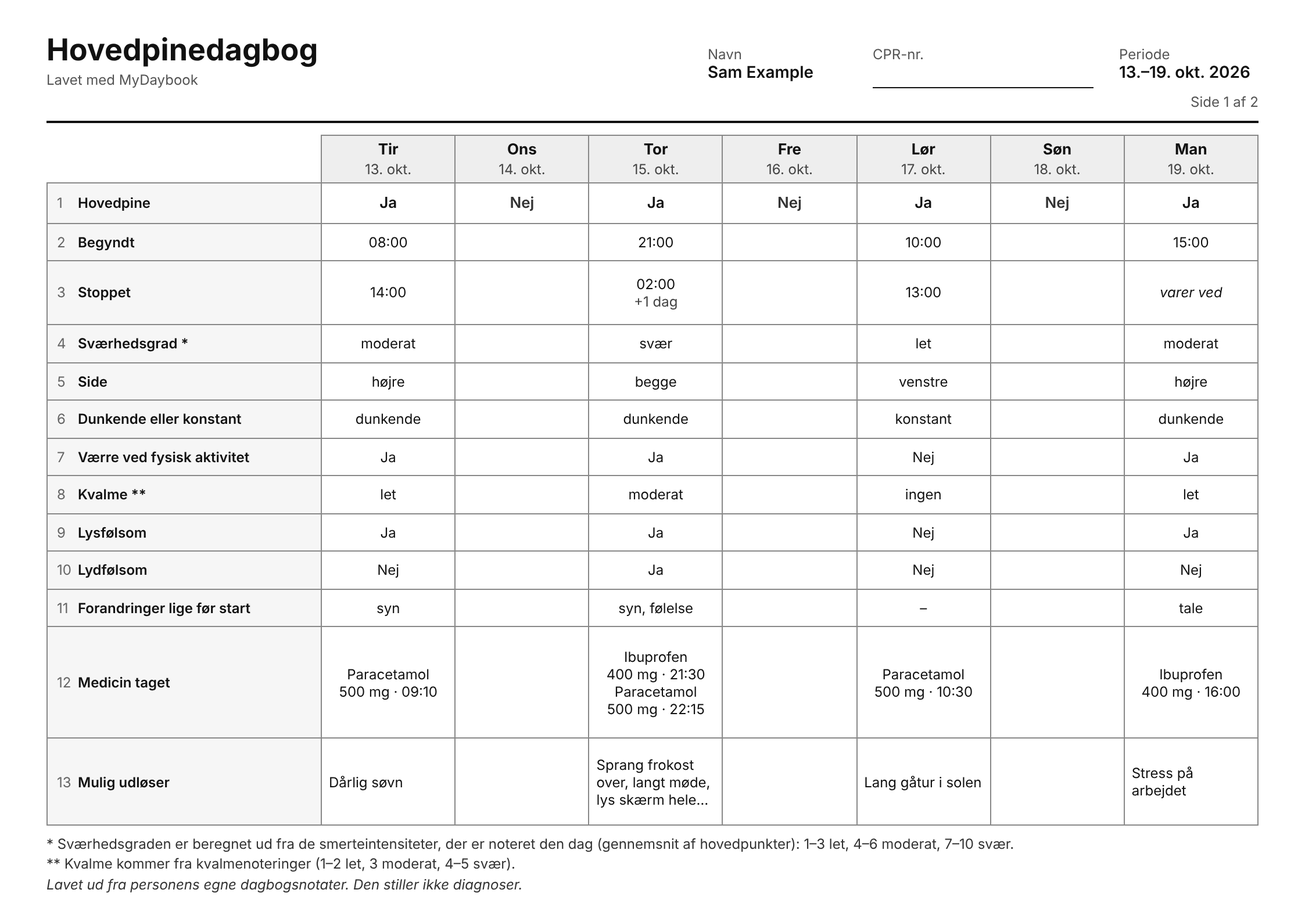
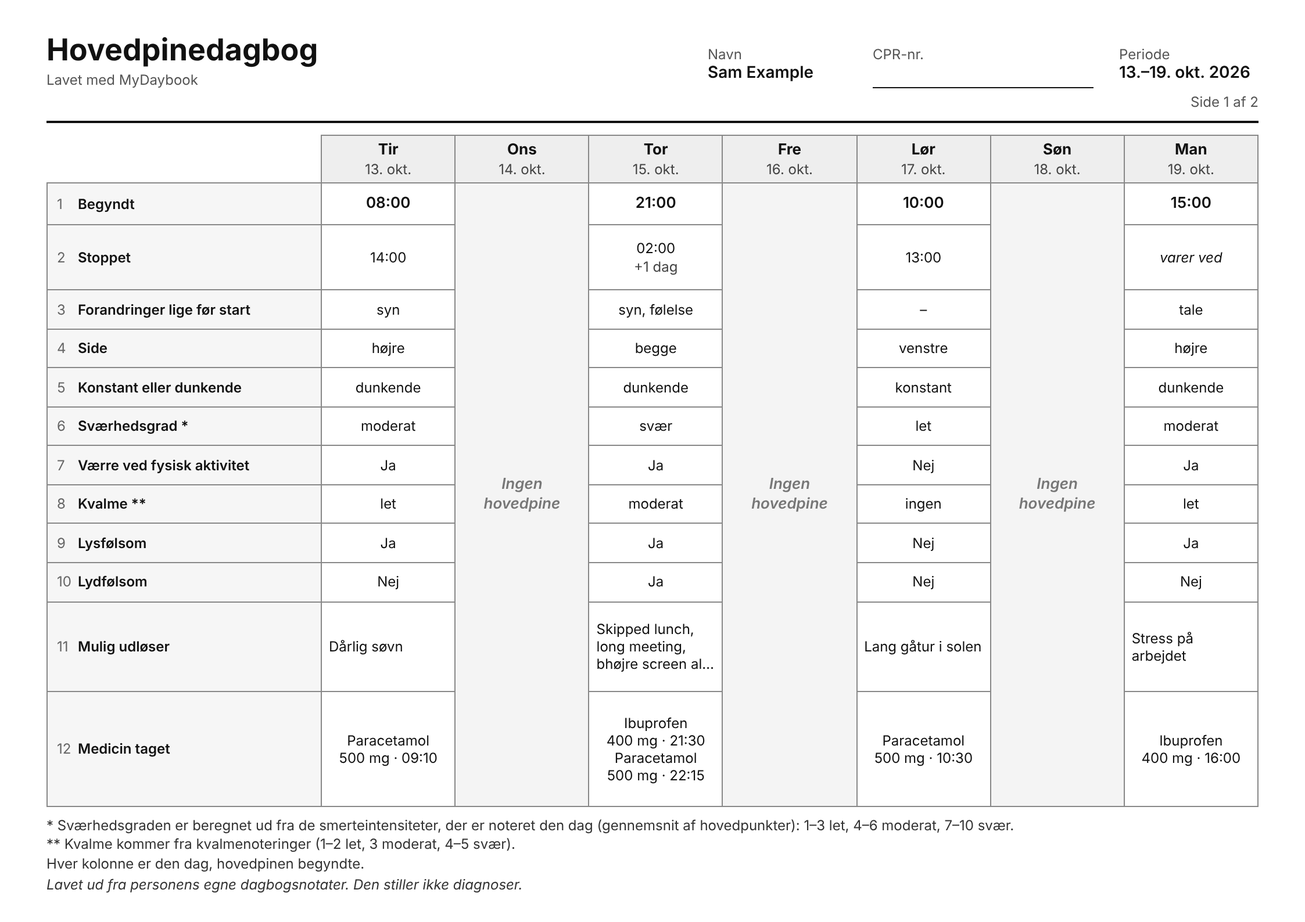
docs(design): headache report layouts (clean table in form order, form layout) and layout picker
Claude-Session: https://claude.ai/code/session_0113psJp7HwLdrncjrcTtuKa

diff --git a/design/headache-report-form.html b/design/headache-report-form.html
@@ -1,0 +1,48 @@
+<!doctype html>
+<html lang="en"><head><meta charset="utf-8"><meta name="viewport" content="width=device-width, initial-scale=1">
+<title>Headache diary, form layout: MyDaybook mockup</title>
+<style>
+@page { size: A4 portrait; margin: 0 }
+* { box-sizing: border-box; margin: 0 }
+html { background: #ddd }
+body { font: 12px/16px system-ui, -apple-system, "Segoe UI", Roboto, Arial, sans-serif; color: #111 }
+.page { width: 794px; height: 1123px; padding: 28px 24px 20px; background: #fff; margin: 0 auto 24px; display: flex; flex-direction: column; overflow: hidden; break-after: page }
+@media print { html { background: #fff } .page { margin: 0 } }
+header { display: grid; grid-template-columns: 1fr auto; gap: 2px 20px; align-items: end; padding-bottom: 8px; border-bottom: 2px solid #111 }
+h1 { font-size: 22px; line-height: 26px } .app { color: #555 }
+dl { display: flex; gap: 18px } dt { color: #555 } dd { font-size: 13px; font-weight: 600; min-height: 18px }
+dd.blank { border-bottom: 1px solid #111; min-width: 130px; margin-top: 2px }
+.pg { grid-column: 2; text-align: right; color: #555 }
+table { width: 100%; border-collapse: collapse; margin-top: 8px; table-layout: fixed }
+col.q { width: 186px }
+th, td { border: 1px solid #888; padding: 3px 4px; vertical-align: top; font-size: 12px; line-height: 16px }
+thead th { background: #eee; text-align: center; font-weight: 600; vertical-align: middle }
+tbody th { text-align: left; font-weight: 400; background: #f6f6f6; white-space: nowrap; padding-left: 6px }
+tbody th b { font-weight: 600 } .n { display: inline-block; width: 18px; color: #666 }
+td { text-align: center }
+.l { height: 16px; white-space: nowrap } .ind { padding-left: 18px }
+.v { font-weight: 600; font-size: 13px; line-height: 24px }
+td.val { vertical-align: middle } tbody tr.thin th, tbody tr.thin td { padding-top: 2px; padding-bottom: 2px }
+.bx { display: inline-block; width: 11px; height: 11px; border: 1.3px solid #222; vertical-align: -1px; position: relative }
+.bx.x::before, .bx.x::after { content: ""; position: absolute; left: 4px; top: -2px; width: 1.6px; height: 14px; background: #111; transform: rotate(45deg) }
+.bx.x::after { transform: rotate(-45deg) }
+.l.sep { border-top: 1px dotted #999; margin-top: 3px; padding-top: 3px; height: 22px }
+tbody tr.thin th { vertical-align: middle }
+.tx { text-align: left; font-size: 12px; display: -webkit-box; -webkit-line-clamp: 3; -webkit-box-orient: vertical; overflow: hidden; line-height: 16px }
+.sm { font-size: 12px; color: #444 } .more { font-style: italic; letter-spacing: -.2px }
+.empty { background: repeating-linear-gradient(135deg, #fff 0 6px, #f6f6f6 6px 7px) }
+footer { margin-top: 8px } footer p { color: #333; line-height: 16px } footer p:last-child { margin-top: 2px; font-style: italic }
+</style></head><body>
+<section class="page" lang="en">
+<header><div><h1>Headache diary — form layout</h1><p class=app>Made with MyDaybook</p></div>
+<dl><div><dt>Name</dt><dd>Sam Example</dd></div><div><dt>CPR no.</dt><dd class=blank>&nbsp;</dd></div><div><dt>Period</dt><dd>13–21 Oct 2026</dd></div></dl>
+<p class=pg>Page 1 of 1</p></header>
+<table><colgroup><col class=q></colgroup><tbody><tr class="thin"><th scope=row><span class=n>1</span><b>Date</b></th><td class=val><span class=v>13/10</span></td><td class=val><span class=v>15/10</span></td><td class=val><span class=v>17/10</span></td><td class=val><span class=v>19/10</span></td><td class=val><span class=v>21/10</span></td><td class=empty></td><td class=empty></td></tr><tr class="thin"><th scope=row><span class=n>2</span>Started (nearest hour)</th><td class=val><span class=v>08:00</span></td><td class=val><span class=v>21:00</span></td><td class=val><span class=v>10:00</span></td><td class=val><span class=v>15:00</span></td><td class=val><span class=v>06:00</span></td><td class=empty></td><td class=empty></td></tr><tr class="thin"><th scope=row><span class=n>3</span>Stopped (nearest hour)</th><td class=val><span class=v>14:00</span></td><td class=val><span class=v>02:00</span><br><span class=sm>+1 day</span></td><td class=val><span class=v>13:00</span></td><td class=val><span class=sm><i>still going</i></span></td><td class=val><span class=v>09:00</span></td><td class=empty></td><td class=empty></td></tr><tr class=""><th scope=row><div class=l><span class=n>4</span>Just before the headache,</div><div class=l>disturbances of:</div><div class="l ind">vision</div><div class="l ind">feeling</div><div class="l ind">speech</div></th><td><div class=l></div><div class=l></div><div class=l><span class="bx x"></span></div><div class=l><span class=bx></span></div><div class=l><span class=bx></span></div></td><td><div class=l></div><div class=l></div><div class=l><span class="bx x"></span></div><div class=l><span class="bx x"></span></div><div class=l><span class=bx></span></div></td><td><div class=l></div><div class=l></div><div class=l><span class=bx></span></div><div class=l><span class=bx></span></div><div class=l><span class=bx></span></div></td><td><div class=l></div><div class=l></div><div class=l><span class=bx></span></div><div class=l><span class=bx></span></div><div class=l><span class="bx x"></span></div></td><td><div class=l></div><div class=l></div><div class=l><span class=bx></span></div><div class=l><span class="bx x"></span></div><div class=l><span class=bx></span></div></td><td class=empty></td><td class=empty></td></tr><tr class=""><th scope=row><div class=l><span class=n>5</span>The headache was:</div><div class="l ind">both sides</div><div class="l ind">right side</div><div class="l ind">left side</div></th><td><div class=l></div><div class=l><span class=bx></span></div><div class=l><span class="bx x"></span></div><div class=l><span class=bx></span></div></td><td><div class=l></div><div class=l><span class="bx x"></span></div><div class=l><span class=bx></span></div><div class=l><span class=bx></span></div></td><td><div class=l></div><div class=l><span class=bx></span></div><div class=l><span class=bx></span></div><div class=l><span class="bx x"></span></div></td><td><div class=l></div><div class=l><span class=bx></span></div><div class=l><span class="bx x"></span></div><div class=l><span class=bx></span></div></td><td><div class=l></div><div class=l><span class=bx></span></div><div class=l><span class=bx></span></div><div class=l><span class="bx x"></span></div></td><td class=empty></td><td class=empty></td></tr><tr class=""><th scope=row><div class=l><span class=n>6</span>The headache was:</div><div class="l ind">constant</div><div class="l ind">pulsating</div></th><td><div class=l></div><div class=l><span class=bx></span></div><div class=l><span class="bx x"></span></div></td><td><div class=l></div><div class=l><span class="bx x"></span></div><div class=l><span class="bx x"></span></div></td><td><div class=l></div><div class=l><span class="bx x"></span></div><div class=l><span class=bx></span></div></td><td><div class=l></div><div class=l><span class=bx></span></div><div class=l><span class="bx x"></span></div></td><td><div class=l></div><div class=l><span class=bx></span></div><div class=l><span class="bx x"></span></div></td><td class=empty></td><td class=empty></td></tr><tr class=""><th scope=row><div class=l><span class=n>7</span>Severity, average of the</div><div class=l>whole day (*):</div><div class="l ind">mild</div><div class="l ind">moderate</div><div class="l ind">severe</div></th><td><div class=l></div><div class=l></div><div class=l><span class=bx></span></div><div class=l><span class="bx x"></span></div><div class=l><span class=bx></span></div></td><td><div class=l></div><div class=l></div><div class=l><span class=bx></span></div><div class=l><span class=bx></span></div><div class=l><span class="bx x"></span></div></td><td><div class=l></div><div class=l></div><div class=l><span class="bx x"></span></div><div class=l><span class=bx></span></div><div class=l><span class=bx></span></div></td><td><div class=l></div><div class=l></div><div class=l><span class=bx></span></div><div class=l><span class="bx x"></span></div><div class=l><span class=bx></span></div></td><td><div class=l></div><div class=l></div><div class=l><span class="bx x"></span></div><div class=l><span class=bx></span></div><div class=l><span class=bx></span></div></td><td class=empty></td><td class=empty></td></tr><tr class=""><th scope=row><div class=l><span class=n>8</span>Worse with physical</div><div class=l>activity, e.g. stairs:</div><div class="l ind">no</div><div class="l ind">yes</div></th><td><div class=l></div><div class=l></div><div class=l><span class=bx></span></div><div class=l><span class="bx x"></span></div></td><td><div class=l></div><div class=l></div><div class=l><span class=bx></span></div><div class=l><span class="bx x"></span></div></td><td><div class=l></div><div class=l></div><div class=l><span class="bx x"></span></div><div class=l><span class=bx></span></div></td><td><div class=l></div><div class=l></div><div class=l><span class=bx></span></div><div class=l><span class="bx x"></span></div></td><td><div class=l></div><div class=l></div><div class=l><span class="bx x"></span></div><div class=l><span class=bx></span></div></td><td class=empty></td><td class=empty></td></tr><tr class=""><th scope=row><div class=l><span class=n>9</span>Nausea (**):</div><div class="l ind">none</div><div class="l ind">mild</div><div class="l ind">moderate</div><div class="l ind">severe</div></th><td><div class=l></div><div class=l><span class=bx></span></div><div class=l><span class="bx x"></span></div><div class=l><span class=bx></span></div><div class=l><span class=bx></span></div></td><td><div class=l></div><div class=l><span class=bx></span></div><div class=l><span class=bx></span></div><div class=l><span class="bx x"></span></div><div class=l><span class=bx></span></div></td><td><div class=l></div><div class=l><span class="bx x"></span></div><div class=l><span class=bx></span></div><div class=l><span class=bx></span></div><div class=l><span class=bx></span></div></td><td><div class=l></div><div class=l><span class=bx></span></div><div class=l><span class="bx x"></span></div><div class=l><span class=bx></span></div><div class=l><span class=bx></span></div></td><td><div class=l></div><div class=l><span class="bx x"></span></div><div class=l><span class=bx></span></div><div class=l><span class=bx></span></div><div class=l><span class=bx></span></div></td><td class=empty></td><td class=empty></td></tr><tr class=""><th scope=row><div class=l><span class=n>10</span>Sensitive to light:</div><div class="l ind">no</div><div class="l ind">yes</div></th><td><div class=l></div><div class=l><span class=bx></span></div><div class=l><span class="bx x"></span></div></td><td><div class=l></div><div class=l><span class=bx></span></div><div class=l><span class="bx x"></span></div></td><td><div class=l></div><div class=l><span class="bx x"></span></div><div class=l><span class=bx></span></div></td><td><div class=l></div><div class=l><span class=bx></span></div><div class=l><span class="bx x"></span></div></td><td><div class=l></div><div class=l><span class="bx x"></span></div><div class=l><span class=bx></span></div></td><td class=empty></td><td class=empty></td></tr><tr class=""><th scope=row><div class=l><span class=n>11</span>Sensitive to sound:</div><div class="l ind">no</div><div class="l ind">yes</div></th><td><div class=l></div><div class=l><span class="bx x"></span></div><div class=l><span class=bx></span></div></td><td><div class=l></div><div class=l><span class=bx></span></div><div class=l><span class="bx x"></span></div></td><td><div class=l></div><div class=l><span class=bx></span></div><div class=l><span class=bx></span></div></td><td><div class=l></div><div class=l><span class="bx x"></span></div><div class=l><span class=bx></span></div></td><td><div class=l></div><div class=l><span class="bx x"></span></div><div class=l><span class=bx></span></div></td><td class=empty></td><td class=empty></td></tr><tr class=""><th scope=row><div class=l><span class=n>12</span>Anything that may have</div><div class=l>triggered it:</div><div class="l ind">what:</div></th><td><div class=tx>Poor sleep</div></td><td><div class=tx>Skipped lunch, long meeting, bright screen all afternoon and a noisy office</div></td><td><div class=tx>Long walk in the sun</div></td><td><div class=tx>Stress at work</div></td><td><div class=tx></div></td><td class=empty></td><td class=empty></td></tr><tr class=""><th scope=row><div class=l><span class=n>13</span>Medicine taken:</div><div class="l ind">Name</div><div class="l ind">Amount</div><div class="l ind">Time</div><div class="l ind sep">Name</div><div class="l ind">Amount</div><div class="l ind">Time</div><div class="l ind sep">Name</div><div class="l ind">Amount</div><div class="l ind">Time</div></th><td><div class=l></div><div class="l">Paracetamol</div><div class="l">500 mg</div><div class="l">09:10</div><div class="l sep">&nbsp;</div><div class="l">&nbsp;</div><div class="l">&nbsp;</div><div class="l sep">&nbsp;</div><div class="l">&nbsp;</div><div class="l">&nbsp;</div></td><td><div class=l></div><div class="l">Ibuprofen</div><div class="l">400 mg</div><div class="l">21:30</div><div class="l sep">Paracetamol</div><div class="l">500 mg</div><div class="l">22:15</div><div class="l sep">Paracetamol</div><div class="l">500 mg</div><div class="l"><span class=more>+1 more</span></div></td><td><div class=l></div><div class="l">Paracetamol</div><div class="l">500 mg</div><div class="l">10:30</div><div class="l sep">&nbsp;</div><div class="l">&nbsp;</div><div class="l">&nbsp;</div><div class="l sep">&nbsp;</div><div class="l">&nbsp;</div><div class="l">&nbsp;</div></td><td><div class=l></div><div class="l">Ibuprofen</div><div class="l">400 mg</div><div class="l">16:00</div><div class="l sep">&nbsp;</div><div class="l">&nbsp;</div><div class="l">&nbsp;</div><div class="l sep">&nbsp;</div><div class="l">&nbsp;</div><div class="l">&nbsp;</div></td><td><div class=l></div><div class="l">Paracetamol</div><div class="l">500 mg</div><div class="l">06:20</div><div class="l sep">&nbsp;</div><div class="l">&nbsp;</div><div class="l">&nbsp;</div><div class="l sep">&nbsp;</div><div class="l">&nbsp;</div><div class="l">&nbsp;</div></td><td class=empty></td><td class=empty></td></tr></tbody></table>
+<footer><p>* Severity: average of the head pain intensities logged that day (0–10): 1–3 mild, 4–6 moderate, 7–10 severe.</p><p>** Nausea from nausea entries: 1–2 mild, 3 moderate, 4–5 severe.</p><p>Made from the person&#x27;s own diary entries. It does not diagnose.</p></footer></section>
+<section class="page" lang="da">
+<header><div><h1>Hovedpinedagbog — skemaform</h1><p class=app>Lavet med MyDaybook</p></div>
+<dl><div><dt>Navn</dt><dd>Sam Example</dd></div><div><dt>CPR-nr.</dt><dd class=blank>&nbsp;</dd></div><div><dt>Periode</dt><dd>13.–21. okt. 2026</dd></div></dl>
+<p class=pg>Side 1 af 1</p></header>
+<table><colgroup><col class=q></colgroup><tbody><tr class="thin"><th scope=row><span class=n>1</span><b>Dato</b></th><td class=val><span class=v>13/10</span></td><td class=val><span class=v>15/10</span></td><td class=val><span class=v>17/10</span></td><td class=val><span class=v>19/10</span></td><td class=val><span class=v>21/10</span></td><td class=empty></td><td class=empty></td></tr><tr class="thin"><th scope=row><span class=n>2</span>Begyndt (nærmeste time)</th><td class=val><span class=v>08:00</span></td><td class=val><span class=v>21:00</span></td><td class=val><span class=v>10:00</span></td><td class=val><span class=v>15:00</span></td><td class=val><span class=v>06:00</span></td><td class=empty></td><td class=empty></td></tr><tr class="thin"><th scope=row><span class=n>3</span>Stoppet (nærmeste time)</th><td class=val><span class=v>14:00</span></td><td class=val><span class=v>02:00</span><br><span class=sm>+1 dag</span></td><td class=val><span class=v>13:00</span></td><td class=val><span class=sm><i>varer ved</i></span></td><td class=val><span class=v>09:00</span></td><td class=empty></td><td class=empty></td></tr><tr class=""><th scope=row><div class=l><span class=n>4</span>Lige før hovedpinen,</div><div class=l>forstyrrelser i:</div><div class="l ind">syn</div><div class="l ind">følelse</div><div class="l ind">tale</div></th><td><div class=l></div><div class=l></div><div class=l><span class="bx x"></span></div><div class=l><span class=bx></span></div><div class=l><span class=bx></span></div></td><td><div class=l></div><div class=l></div><div class=l><span class="bx x"></span></div><div class=l><span class="bx x"></span></div><div class=l><span class=bx></span></div></td><td><div class=l></div><div class=l></div><div class=l><span class=bx></span></div><div class=l><span class=bx></span></div><div class=l><span class=bx></span></div></td><td><div class=l></div><div class=l></div><div class=l><span class=bx></span></div><div class=l><span class=bx></span></div><div class=l><span class="bx x"></span></div></td><td><div class=l></div><div class=l></div><div class=l><span class=bx></span></div><div class=l><span class="bx x"></span></div><div class=l><span class=bx></span></div></td><td class=empty></td><td class=empty></td></tr><tr class=""><th scope=row><div class=l><span class=n>5</span>Hovedpinen var:</div><div class="l ind">begge sider</div><div class="l ind">højre side</div><div class="l ind">venstre side</div></th><td><div class=l></div><div class=l><span class=bx></span></div><div class=l><span class="bx x"></span></div><div class=l><span class=bx></span></div></td><td><div class=l></div><div class=l><span class="bx x"></span></div><div class=l><span class=bx></span></div><div class=l><span class=bx></span></div></td><td><div class=l></div><div class=l><span class=bx></span></div><div class=l><span class=bx></span></div><div class=l><span class="bx x"></span></div></td><td><div class=l></div><div class=l><span class=bx></span></div><div class=l><span class="bx x"></span></div><div class=l><span class=bx></span></div></td><td><div class=l></div><div class=l><span class=bx></span></div><div class=l><span class=bx></span></div><div class=l><span class="bx x"></span></div></td><td class=empty></td><td class=empty></td></tr><tr class=""><th scope=row><div class=l><span class=n>6</span>Hovedpinen var:</div><div class="l ind">konstant</div><div class="l ind">dunkende</div></th><td><div class=l></div><div class=l><span class=bx></span></div><div class=l><span class="bx x"></span></div></td><td><div class=l></div><div class=l><span class="bx x"></span></div><div class=l><span class="bx x"></span></div></td><td><div class=l></div><div class=l><span class="bx x"></span></div><div class=l><span class=bx></span></div></td><td><div class=l></div><div class=l><span class=bx></span></div><div class=l><span class="bx x"></span></div></td><td><div class=l></div><div class=l><span class=bx></span></div><div class=l><span class="bx x"></span></div></td><td class=empty></td><td class=empty></td></tr><tr class=""><th scope=row><div class=l><span class=n>7</span>Sværhedsgrad, gennemsnit</div><div class=l>for hele dagen (*):</div><div class="l ind">let</div><div class="l ind">moderat</div><div class="l ind">svær</div></th><td><div class=l></div><div class=l></div><div class=l><span class=bx></span></div><div class=l><span class="bx x"></span></div><div class=l><span class=bx></span></div></td><td><div class=l></div><div class=l></div><div class=l><span class=bx></span></div><div class=l><span class=bx></span></div><div class=l><span class="bx x"></span></div></td><td><div class=l></div><div class=l></div><div class=l><span class="bx x"></span></div><div class=l><span class=bx></span></div><div class=l><span class=bx></span></div></td><td><div class=l></div><div class=l></div><div class=l><span class=bx></span></div><div class=l><span class="bx x"></span></div><div class=l><span class=bx></span></div></td><td><div class=l></div><div class=l></div><div class=l><span class="bx x"></span></div><div class=l><span class=bx></span></div><div class=l><span class=bx></span></div></td><td class=empty></td><td class=empty></td></tr><tr class=""><th scope=row><div class=l><span class=n>8</span>Værre ved fysisk</div><div class=l>aktivitet, fx trapper:</div><div class="l ind">nej</div><div class="l ind">ja</div></th><td><div class=l></div><div class=l></div><div class=l><span class=bx></span></div><div class=l><span class="bx x"></span></div></td><td><div class=l></div><div class=l></div><div class=l><span class=bx></span></div><div class=l><span class="bx x"></span></div></td><td><div class=l></div><div class=l></div><div class=l><span class="bx x"></span></div><div class=l><span class=bx></span></div></td><td><div class=l></div><div class=l></div><div class=l><span class=bx></span></div><div class=l><span class="bx x"></span></div></td><td><div class=l></div><div class=l></div><div class=l><span class="bx x"></span></div><div class=l><span class=bx></span></div></td><td class=empty></td><td class=empty></td></tr><tr class=""><th scope=row><div class=l><span class=n>9</span>Kvalme (**):</div><div class="l ind">ingen</div><div class="l ind">let</div><div class="l ind">moderat</div><div class="l ind">svær</div></th><td><div class=l></div><div class=l><span class=bx></span></div><div class=l><span class="bx x"></span></div><div class=l><span class=bx></span></div><div class=l><span class=bx></span></div></td><td><div class=l></div><div class=l><span class=bx></span></div><div class=l><span class=bx></span></div><div class=l><span class="bx x"></span></div><div class=l><span class=bx></span></div></td><td><div class=l></div><div class=l><span class="bx x"></span></div><div class=l><span class=bx></span></div><div class=l><span class=bx></span></div><div class=l><span class=bx></span></div></td><td><div class=l></div><div class=l><span class=bx></span></div><div class=l><span class="bx x"></span></div><div class=l><span class=bx></span></div><div class=l><span class=bx></span></div></td><td><div class=l></div><div class=l><span class="bx x"></span></div><div class=l><span class=bx></span></div><div class=l><span class=bx></span></div><div class=l><span class=bx></span></div></td><td class=empty></td><td class=empty></td></tr><tr class=""><th scope=row><div class=l><span class=n>10</span>Lysfølsom:</div><div class="l ind">nej</div><div class="l ind">ja</div></th><td><div class=l></div><div class=l><span class=bx></span></div><div class=l><span class="bx x"></span></div></td><td><div class=l></div><div class=l><span class=bx></span></div><div class=l><span class="bx x"></span></div></td><td><div class=l></div><div class=l><span class="bx x"></span></div><div class=l><span class=bx></span></div></td><td><div class=l></div><div class=l><span class=bx></span></div><div class=l><span class="bx x"></span></div></td><td><div class=l></div><div class=l><span class="bx x"></span></div><div class=l><span class=bx></span></div></td><td class=empty></td><td class=empty></td></tr><tr class=""><th scope=row><div class=l><span class=n>11</span>Lydfølsom:</div><div class="l ind">nej</div><div class="l ind">ja</div></th><td><div class=l></div><div class=l><span class="bx x"></span></div><div class=l><span class=bx></span></div></td><td><div class=l></div><div class=l><span class=bx></span></div><div class=l><span class="bx x"></span></div></td><td><div class=l></div><div class=l><span class=bx></span></div><div class=l><span class=bx></span></div></td><td><div class=l></div><div class=l><span class="bx x"></span></div><div class=l><span class=bx></span></div></td><td><div class=l></div><div class=l><span class="bx x"></span></div><div class=l><span class=bx></span></div></td><td class=empty></td><td class=empty></td></tr><tr class=""><th scope=row><div class=l><span class=n>12</span>Noget, der kan have</div><div class=l>udløst den:</div><div class="l ind">hvad:</div></th><td><div class=tx>Dårlig søvn</div></td><td><div class=tx>Sprang frokost over, langt møde, lys skærm hele eftermiddagen og et støjende kontor</div></td><td><div class=tx>Lang gåtur i solen</div></td><td><div class=tx>Stress på arbejdet</div></td><td><div class=tx></div></td><td class=empty></td><td class=empty></td></tr><tr class=""><th scope=row><div class=l><span class=n>13</span>Medicin taget:</div><div class="l ind">Navn</div><div class="l ind">Mængde</div><div class="l ind">Tid</div><div class="l ind sep">Navn</div><div class="l ind">Mængde</div><div class="l ind">Tid</div><div class="l ind sep">Navn</div><div class="l ind">Mængde</div><div class="l ind">Tid</div></th><td><div class=l></div><div class="l">Paracetamol</div><div class="l">500 mg</div><div class="l">09:10</div><div class="l sep">&nbsp;</div><div class="l">&nbsp;</div><div class="l">&nbsp;</div><div class="l sep">&nbsp;</div><div class="l">&nbsp;</div><div class="l">&nbsp;</div></td><td><div class=l></div><div class="l">Ibuprofen</div><div class="l">400 mg</div><div class="l">21:30</div><div class="l sep">Paracetamol</div><div class="l">500 mg</div><div class="l">22:15</div><div class="l sep">Paracetamol</div><div class="l">500 mg</div><div class="l"><span class=more>+1 mere</span></div></td><td><div class=l></div><div class="l">Paracetamol</div><div class="l">500 mg</div><div class="l">10:30</div><div class="l sep">&nbsp;</div><div class="l">&nbsp;</div><div class="l">&nbsp;</div><div class="l sep">&nbsp;</div><div class="l">&nbsp;</div><div class="l">&nbsp;</div></td><td><div class=l></div><div class="l">Ibuprofen</div><div class="l">400 mg</div><div class="l">16:00</div><div class="l sep">&nbsp;</div><div class="l">&nbsp;</div><div class="l">&nbsp;</div><div class="l sep">&nbsp;</div><div class="l">&nbsp;</div><div class="l">&nbsp;</div></td><td><div class=l></div><div class="l">Paracetamol</div><div class="l">500 mg</div><div class="l">06:20</div><div class="l sep">&nbsp;</div><div class="l">&nbsp;</div><div class="l">&nbsp;</div><div class="l sep">&nbsp;</div><div class="l">&nbsp;</div><div class="l">&nbsp;</div></td><td class=empty></td><td class=empty></td></tr></tbody></table>
+<footer><p>* Sværhedsgrad: gennemsnit af de hovedsmerteintensiteter (0–10), der er noteret den dag: 1–3 let, 4–6 moderat, 7–10 svær.</p><p>** Kvalme fra kvalmenoteringer: 1–2 let, 3 moderat, 4–5 svær.</p><p>Lavet ud fra personens egne dagbogsnotater. Den stiller ikke diagnoser.</p></footer></section>
+</body></html>

diff --git a/design/headache-report.html b/design/headache-report.html
@@ -20,7 +20,8 @@ thead th { background: #eee; font-weight: 400; padding: 4px; height: 38px } thea
 .corner { width: 236px; background: #fff; border-top-color: transparent; border-left-color: transparent }
 tbody th { text-align: left; font-weight: 600; background: #f6f6f6; font-size: 12px; padding-left: 8px }
 .n { display: inline-block; width: 18px; color: #666; font-weight: 400 }
-td.no { color: #333 } tbody tr:first-child td { font-weight: 600; font-size: 13px }
+tbody tr:first-child td { font-weight: 600; font-size: 13px }
+td.none { background: #f4f4f4; color: #777; font-style: italic; font-size: 13px }
 td.md { line-height: 1.25; padding: 3px 4px }
 td.tr { text-align: left; line-height: 1.25 }
 .sm { font-size: 12px; color: #444 } i { font-style: italic }
@@ -31,12 +32,12 @@ footer { margin-top: 8px } footer p { font-size: 12px; color: #333; line-height:
 <header><div><h1>Headache diary</h1><p class=app>Made with MyDaybook</p></div>
 <dl><div><dt>Name</dt><dd>Sam Example</dd></div><div><dt>CPR no.</dt><dd class=blank>&nbsp;</dd></div><div><dt>Period</dt><dd>13–19 Oct 2026</dd></div></dl>
 <p class=pg>Page 1 of 2</p></header>
-<table><thead><tr><th class=corner></th><th><b>Tue</b><span>13 Oct</span></th><th><b>Wed</b><span>14 Oct</span></th><th><b>Thu</b><span>15 Oct</span></th><th><b>Fri</b><span>16 Oct</span></th><th><b>Sat</b><span>17 Oct</span></th><th><b>Sun</b><span>18 Oct</span></th><th><b>Mon</b><span>19 Oct</span></th></tr></thead><tbody><tr><th scope=row><span class=n>1</span>Headache</th><td>Yes</td><td class=no>No</td><td>Yes</td><td class=no>No</td><td>Yes</td><td class=no>No</td><td>Yes</td></tr><tr><th scope=row><span class=n>2</span>Started</th><td>08:00</td><td></td><td>21:00</td><td></td><td>10:00</td><td></td><td>15:00</td></tr><tr><th scope=row><span class=n>3</span>Stopped</th><td>14:00</td><td></td><td>02:00<br><span class=sm>+1 day</span></td><td></td><td>13:00</td><td></td><td><i>still going</i></td></tr><tr><th scope=row><span class=n>4</span>Severity *</th><td>moderate</td><td></td><td>severe</td><td></td><td>mild</td><td></td><td>moderate</td></tr><tr><th scope=row><span class=n>5</span>Side</th><td>right</td><td></td><td>both</td><td></td><td>left</td><td></td><td>right</td></tr><tr><th scope=row><span class=n>6</span>Pulsating or constant</th><td>pulsating</td><td></td><td>pulsating</td><td></td><td>constant</td><td></td><td>pulsating</td></tr><tr><th scope=row><span class=n>7</span>Worse with physical activity</th><td>Yes</td><td></td><td>Yes</td><td></td><td>No</td><td></td><td>Yes</td></tr><tr><th scope=row><span class=n>8</span>Nausea **</th><td>mild</td><td></td><td>moderate</td><td></td><td>none</td><td></td><td>mild</td></tr><tr><th scope=row><span class=n>9</span>Sensitive to light</th><td>Yes</td><td></td><td>Yes</td><td></td><td>No</td><td></td><td>Yes</td></tr><tr><th scope=row><span class=n>10</span>Sensitive to sound</th><td>No</td><td></td><td>Yes</td><td></td><td>No</td><td></td><td>No</td></tr><tr><th scope=row><span class=n>11</span>Changes just before it started</th><td>vision</td><td></td><td>vision, feeling</td><td></td><td>–</td><td></td><td>speech</td></tr><tr><th scope=row><span class=n>12</span>Medicine taken</th><td class=md>Paracetamol<br>500 mg · 09:10</td><td></td><td class=md>Ibuprofen<br>400 mg · 21:30<br>Paracetamol<br>500 mg · 22:15</td><td></td><td class=md>Paracetamol<br>500 mg · 10:30</td><td></td><td class=md>Ibuprofen<br>400 mg · 16:00</td></tr><tr><th scope=row><span class=n>13</span>Possible trigger</th><td class=tr><div class=clamp>Poor sleep</div></td><td></td><td class=tr><div class=clamp>Skipped lunch, long meeting, bright screen all afternoon and a noisy office</div></td><td></td><td class=tr><div class=clamp>Long walk in the sun</div></td><td></td><td class=tr><div class=clamp>Stress at work</div></td></tr></tbody></table>
-<footer><p>* Severity is worked out from the pain intensities logged that day (average of head points): 1–3 mild, 4–6 moderate, 7–10 severe.</p><p>** Nausea comes from nausea entries (1–2 mild, 3 moderate, 4–5 severe).</p><p>Made from the person&#x27;s own diary entries. It does not diagnose.</p></footer></section>
+<table><thead><tr><th class=corner></th><th><b>Tue</b><span>13 Oct</span></th><th><b>Wed</b><span>14 Oct</span></th><th><b>Thu</b><span>15 Oct</span></th><th><b>Fri</b><span>16 Oct</span></th><th><b>Sat</b><span>17 Oct</span></th><th><b>Sun</b><span>18 Oct</span></th><th><b>Mon</b><span>19 Oct</span></th></tr></thead><tbody><tr><th scope=row><span class=n>1</span>Started</th><td>08:00</td><td class=none rowspan=12>No headache</td><td>21:00</td><td class=none rowspan=12>No headache</td><td>10:00</td><td class=none rowspan=12>No headache</td><td>15:00</td></tr><tr><th scope=row><span class=n>2</span>Stopped</th><td>14:00</td><td>02:00<br><span class=sm>+1 day</span></td><td>13:00</td><td><i>still going</i></td></tr><tr><th scope=row><span class=n>3</span>Changes just before it started</th><td>vision</td><td>vision, feeling</td><td>–</td><td>speech</td></tr><tr><th scope=row><span class=n>4</span>Side</th><td>right</td><td>both</td><td>left</td><td>right</td></tr><tr><th scope=row><span class=n>5</span>Constant or pulsating</th><td>pulsating</td><td>pulsating</td><td>constant</td><td>pulsating</td></tr><tr><th scope=row><span class=n>6</span>Severity *</th><td>moderate</td><td>severe</td><td>mild</td><td>moderate</td></tr><tr><th scope=row><span class=n>7</span>Worse with physical activity</th><td>Yes</td><td>Yes</td><td>No</td><td>Yes</td></tr><tr><th scope=row><span class=n>8</span>Nausea **</th><td>mild</td><td>moderate</td><td>none</td><td>mild</td></tr><tr><th scope=row><span class=n>9</span>Sensitive to light</th><td>Yes</td><td>Yes</td><td>No</td><td>Yes</td></tr><tr><th scope=row><span class=n>10</span>Sensitive to sound</th><td>No</td><td>Yes</td><td>No</td><td>No</td></tr><tr><th scope=row><span class=n>11</span>Possible trigger</th><td class=tr><div class=clamp>Poor sleep</div></td><td class=tr><div class=clamp>Skipped lunch, long meeting, bright screen all afternoon and a noisy office</div></td><td class=tr><div class=clamp>Long walk in the sun</div></td><td class=tr><div class=clamp>Stress at work</div></td></tr><tr><th scope=row><span class=n>12</span>Medicine taken</th><td class=md>Paracetamol<br>500 mg · 09:10</td><td class=md>Ibuprofen<br>400 mg · 21:30<br>Paracetamol<br>500 mg · 22:15</td><td class=md>Paracetamol<br>500 mg · 10:30</td><td class=md>Ibuprofen<br>400 mg · 16:00</td></tr></tbody></table>
+<footer><p>* Severity of the day: average of the head pain intensities logged, 1–3 mild, 4–6 moderate, 7–10 severe.</p><p>** Nausea comes from nausea entries (1–2 mild, 3 moderate, 4–5 severe).</p><p>Each column is the day the headache started.</p><p>Made from the person&#x27;s own diary entries. It does not diagnose.</p></footer></section>
 <section class="page" lang="da">
 <header><div><h1>Hovedpinedagbog</h1><p class=app>Lavet med MyDaybook</p></div>
 <dl><div><dt>Navn</dt><dd>Sam Example</dd></div><div><dt>CPR-nr.</dt><dd class=blank>&nbsp;</dd></div><div><dt>Periode</dt><dd>13.–19. okt. 2026</dd></div></dl>
 <p class=pg>Side 1 af 2</p></header>
-<table><thead><tr><th class=corner></th><th><b>Tir</b><span>13. okt.</span></th><th><b>Ons</b><span>14. okt.</span></th><th><b>Tor</b><span>15. okt.</span></th><th><b>Fre</b><span>16. okt.</span></th><th><b>Lør</b><span>17. okt.</span></th><th><b>Søn</b><span>18. okt.</span></th><th><b>Man</b><span>19. okt.</span></th></tr></thead><tbody><tr><th scope=row><span class=n>1</span>Hovedpine</th><td>Ja</td><td class=no>Nej</td><td>Ja</td><td class=no>Nej</td><td>Ja</td><td class=no>Nej</td><td>Ja</td></tr><tr><th scope=row><span class=n>2</span>Begyndt</th><td>08:00</td><td></td><td>21:00</td><td></td><td>10:00</td><td></td><td>15:00</td></tr><tr><th scope=row><span class=n>3</span>Stoppet</th><td>14:00</td><td></td><td>02:00<br><span class=sm>+1 dag</span></td><td></td><td>13:00</td><td></td><td><i>varer ved</i></td></tr><tr><th scope=row><span class=n>4</span>Sværhedsgrad *</th><td>moderat</td><td></td><td>svær</td><td></td><td>let</td><td></td><td>moderat</td></tr><tr><th scope=row><span class=n>5</span>Side</th><td>højre</td><td></td><td>begge</td><td></td><td>venstre</td><td></td><td>højre</td></tr><tr><th scope=row><span class=n>6</span>Dunkende eller konstant</th><td>dunkende</td><td></td><td>dunkende</td><td></td><td>konstant</td><td></td><td>dunkende</td></tr><tr><th scope=row><span class=n>7</span>Værre ved fysisk aktivitet</th><td>Ja</td><td></td><td>Ja</td><td></td><td>Nej</td><td></td><td>Ja</td></tr><tr><th scope=row><span class=n>8</span>Kvalme **</th><td>let</td><td></td><td>moderat</td><td></td><td>ingen</td><td></td><td>let</td></tr><tr><th scope=row><span class=n>9</span>Lysfølsom</th><td>Ja</td><td></td><td>Ja</td><td></td><td>Nej</td><td></td><td>Ja</td></tr><tr><th scope=row><span class=n>10</span>Lydfølsom</th><td>Nej</td><td></td><td>Ja</td><td></td><td>Nej</td><td></td><td>Nej</td></tr><tr><th scope=row><span class=n>11</span>Forandringer lige før start</th><td>syn</td><td></td><td>syn, følelse</td><td></td><td>–</td><td></td><td>tale</td></tr><tr><th scope=row><span class=n>12</span>Medicin taget</th><td class=md>Paracetamol<br>500 mg · 09:10</td><td></td><td class=md>Ibuprofen<br>400 mg · 21:30<br>Paracetamol<br>500 mg · 22:15</td><td></td><td class=md>Paracetamol<br>500 mg · 10:30</td><td></td><td class=md>Ibuprofen<br>400 mg · 16:00</td></tr><tr><th scope=row><span class=n>13</span>Mulig udløser</th><td class=tr><div class=clamp>Dårlig søvn</div></td><td></td><td class=tr><div class=clamp>Sprang frokost over, langt møde, lys skærm hele eftermiddagen og et støjende kontor</div></td><td></td><td class=tr><div class=clamp>Lang gåtur i solen</div></td><td></td><td class=tr><div class=clamp>Stress på arbejdet</div></td></tr></tbody></table>
-<footer><p>* Sværhedsgraden er beregnet ud fra de smerteintensiteter, der er noteret den dag (gennemsnit af hovedpunkter): 1–3 let, 4–6 moderat, 7–10 svær.</p><p>** Kvalme kommer fra kvalmenoteringer (1–2 let, 3 moderat, 4–5 svær).</p><p>Lavet ud fra personens egne dagbogsnotater. Den stiller ikke diagnoser.</p></footer></section>
+<table><thead><tr><th class=corner></th><th><b>Tir</b><span>13. okt.</span></th><th><b>Ons</b><span>14. okt.</span></th><th><b>Tor</b><span>15. okt.</span></th><th><b>Fre</b><span>16. okt.</span></th><th><b>Lør</b><span>17. okt.</span></th><th><b>Søn</b><span>18. okt.</span></th><th><b>Man</b><span>19. okt.</span></th></tr></thead><tbody><tr><th scope=row><span class=n>1</span>Begyndt</th><td>08:00</td><td class=none rowspan=12>Ingen hovedpine</td><td>21:00</td><td class=none rowspan=12>Ingen hovedpine</td><td>10:00</td><td class=none rowspan=12>Ingen hovedpine</td><td>15:00</td></tr><tr><th scope=row><span class=n>2</span>Stoppet</th><td>14:00</td><td>02:00<br><span class=sm>+1 dag</span></td><td>13:00</td><td><i>varer ved</i></td></tr><tr><th scope=row><span class=n>3</span>Forandringer lige før start</th><td>syn</td><td>syn, følelse</td><td>–</td><td>tale</td></tr><tr><th scope=row><span class=n>4</span>Side</th><td>højre</td><td>begge</td><td>venstre</td><td>højre</td></tr><tr><th scope=row><span class=n>5</span>Konstant eller dunkende</th><td>dunkende</td><td>dunkende</td><td>konstant</td><td>dunkende</td></tr><tr><th scope=row><span class=n>6</span>Sværhedsgrad *</th><td>moderat</td><td>svær</td><td>let</td><td>moderat</td></tr><tr><th scope=row><span class=n>7</span>Værre ved fysisk aktivitet</th><td>Ja</td><td>Ja</td><td>Nej</td><td>Ja</td></tr><tr><th scope=row><span class=n>8</span>Kvalme **</th><td>let</td><td>moderat</td><td>ingen</td><td>let</td></tr><tr><th scope=row><span class=n>9</span>Lysfølsom</th><td>Ja</td><td>Ja</td><td>Nej</td><td>Ja</td></tr><tr><th scope=row><span class=n>10</span>Lydfølsom</th><td>Nej</td><td>Ja</td><td>Nej</td><td>Nej</td></tr><tr><th scope=row><span class=n>11</span>Mulig udløser</th><td class=tr><div class=clamp>Dårlig søvn</div></td><td class=tr><div class=clamp>Skipped lunch, long meeting, bhøjre screen all afternoon and a noisy office</div></td><td class=tr><div class=clamp>Lang gåtur i solen</div></td><td class=tr><div class=clamp>Stress på arbejdet</div></td></tr><tr><th scope=row><span class=n>12</span>Medicin taget</th><td class=md>Paracetamol<br>500 mg · 09:10</td><td class=md>Ibuprofen<br>400 mg · 21:30<br>Paracetamol<br>500 mg · 22:15</td><td class=md>Paracetamol<br>500 mg · 10:30</td><td class=md>Ibuprofen<br>400 mg · 16:00</td></tr></tbody></table>
+<footer><p>* Sværhedsgraden er beregnet ud fra de smerteintensiteter, der er noteret den dag (gennemsnit af hovedpunkter): 1–3 let, 4–6 moderat, 7–10 svær.</p><p>** Kvalme kommer fra kvalmenoteringer (1–2 let, 3 moderat, 4–5 svær).</p><p>Hver kolonne er den dag, hovedpinen begyndte.</p><p>Lavet ud fra personens egne dagbogsnotater. Den stiller ikke diagnoser.</p></footer></section>
 </body></html>

diff --git a/design/headache-report-pick.html b/design/headache-report-pick.html
@@ -8,7 +8,18 @@
 <link rel="stylesheet" href="mockup.css">
 <style>
 .field.txt { color: var(--text); }
-.hint-note { display: flex; gap: var(--sp-2); align-items: flex-start; color: var(--text-2); font-size: var(--fs-footnote); margin: var(--sp-5) 0 var(--sp-4); }
+.hint-note { display: flex; gap: var(--sp-2); align-items: flex-start; color: var(--text-2); font-size: var(--fs-footnote); margin: var(--sp-3) 0 var(--sp-3); }
+.lay { display: grid; gap: var(--sp-2); }
+.lay button { display: grid; grid-template-columns: 72px 1fr; column-gap: var(--sp-3); align-items: center; padding: 6px var(--sp-3); border-radius: var(--r-md); background: var(--surface-2); border: 1.5px solid transparent; color: var(--text); text-align: left; }
+.lay button.on { background: var(--primary-soft); border-color: var(--primary); }
+.lay b { align-self: end; font-size: var(--fs-callout); font-weight: var(--fw-semibold); } .lay button.on b { color: var(--primary-press); }
+.lay small { align-self: start; font-size: var(--fs-footnote); color: var(--text-2); line-height: 1.25; }
+.thumb { grid-row: 1 / 3; height: 52px; display: flex; align-items: center; justify-content: center; }
+.pg { background: #fff; border: 1px solid var(--line); border-radius: 2px; box-shadow: var(--shadow-1); display: grid; gap: 2px; padding: 3px; }
+.pg i { background: #c9c0cf; border-radius: 1px; }
+.pg.ls { width: 64px; height: 45px; grid-template-columns: 1.6fr repeat(7, 1fr); grid-template-rows: repeat(5, 1fr); }
+.pg.pt { width: 36px; height: 51px; grid-template-columns: 1.6fr repeat(4, 1fr); grid-template-rows: repeat(7, 1fr); }
+.pg .h { background: #8d8394 }
 </style>
 </head>
 <body>
@@ -23,15 +34,20 @@
   <header class="page-head" style="padding-top:0"><div><p class="eyebrow">Reports</p><h1 class="large-title">Headache diary</h1></div></header>
 
   <section class="card">
-    <div class="label" style="margin-top:0">Period</div>
+    <div class="label" style="margin-top:0">Period <span class="hint">13–19 Oct 2026</span></div>
     <div class="chip-row">
       <button class="chip on" aria-pressed="true">Last 7 days</button><button class="chip">Last 14 days</button>
       <button class="chip">Last 28 days</button><button class="chip">Custom from–to</button>
     </div>
-    <p class="card-sub" style="margin-top:var(--sp-3)">13–19 Oct 2026</p>
-
+    
     <div class="label">Report language <span class="hint">Not the app language</span></div>
     <div class="segmented" role="group" aria-label="Report language"><button>Dansk</button><button class="on" aria-pressed="true">English</button></div>
+
+    <div class="label">Layout <span class="hint">Remembered on this device</span></div>
+    <div class="lay" role="group" aria-label="Layout">
+      <button class="on" aria-pressed="true"><span class="thumb"><span class="pg ls"><i class=h></i><i class=h></i><i class=h></i><i class=h></i><i class=h></i><i class=h></i><i class=h></i><i class=h></i><i class=h></i><i></i><i></i><i></i><i></i><i></i><i></i><i></i><i class=h></i><i></i><i></i><i></i><i></i><i></i><i></i><i></i><i class=h></i><i></i><i></i><i></i><i></i><i></i><i></i><i></i><i class=h></i><i></i><i></i><i></i><i></i><i></i><i></i><i></i></span></span><b>Clean table</b><small>Every day, landscape</small></button>
+      <button aria-pressed="false"><span class="thumb"><span class="pg pt"><i class=h></i><i class=h></i><i class=h></i><i class=h></i><i class=h></i><i class=h></i><i></i><i></i><i></i><i></i><i class=h></i><i></i><i></i><i></i><i></i><i class=h></i><i></i><i></i><i></i><i></i><i class=h></i><i></i><i></i><i></i><i></i><i class=h></i><i></i><i></i><i></i><i></i><i class=h></i><i></i><i></i><i></i><i></i></span></span><b>Like the paper form</b><small>Headache days only, portrait</small></button>
+    </div>
 
     <div class="label">Name on the report <span class="hint">Optional</span></div>
     <div class="field txt">Sam Example</div>

diff --git a/design/README.md b/design/README.md
@@ -29,8 +29,9 @@ Screens that scroll also have a `-full` capture.
 | Medication | [meds.html](meds.html) | [png](screenshots/meds-light.png) · [full](screenshots/meds-light-full.png) | [png](screenshots/meds-dark.png) | Doses generated from each schedule (repeat icon), **"All taken" per slot**, taken / skipped / late, "when needed" medications, opt-in reminders with generic text explained. No dose advice anywhere |
 | New medication ★ | [med-edit.html](med-edit.html) | [png](screenshots/med-edit-light.png) · [full](screenshots/med-edit-light-full.png) | [png](screenshots/med-edit-dark.png) | **Set up once**: strength, form, how often (every day / some weekdays / every few days / as needed), times with your own amount, start/end, reminders |
 | Trends | [trends.html](trends.html) | [png](screenshots/trends-light.png) · [full](screenshots/trends-light-full.png) | [png](screenshots/trends-dark.png) | Mood and energy curves, sleep bars, weight sparkline (neutral, with no target or range), **body heat map**, bowel types per day, **"after meals with gluten"** side-by-side entries (no conclusions), doctor-visit PDF |
-| Headache report: picker | [headache-report-pick.html](headache-report-pick.html) | [png](screenshots/headache-report-pick-light.png) | [png](screenshots/headache-report-pick-dark.png) | Reached from a Reports button on Trends: period (7 / 14 / 28 days or custom), report language Dansk / English (independent of the app language), optional name, "Make report" opens a printable page |
-| Headache report: printed page | [headache-report.html](headache-report.html) | [EN](screenshots/headache-report-en.png) | [DA](screenshots/headache-report-da.png) (light only) | A4 landscape, one column per day, 7 days per page, 13 rows, blank CPR line (never stored), severity and nausea footnotes. Black and grey, synthetic data |
+| Headache report: picker | [headache-report-pick.html](headache-report-pick.html) | [png](screenshots/headache-report-pick-light.png) | [png](screenshots/headache-report-pick-dark.png) | Reached from a Reports button on Trends: period (7 / 14 / 28 days or custom), report language Dansk / English (independent of the app language), layout (Clean table / Like the paper form, remembered per device), optional name, "Make report" opens a printable page |
+| Headache report: Clean table | [headache-report.html](headache-report.html) | [EN](screenshots/headache-report-en.png) | [DA](screenshots/headache-report-da.png) (light only) | A4 landscape, every calendar day as a column (7 per page), 12 rows in the paper form's order, "No headache" for days without one, blank CPR line (never stored), severity and nausea footnotes. Black and grey, synthetic data |
+| Headache report: Like the paper form | [headache-report-form.html](headache-report-form.html) | [EN](screenshots/headache-report-form-en.png) | [DA](screenshots/headache-report-form-da.png) (light only) | A4 portrait, headache days only (7 columns per page), 13 questions with printed options and the chosen one ticked, up to 3 medicines + "+N more", own heading and footnotes. Synthetic data |
 | Onboarding: recovery key | [onboarding-recovery.html](onboarding-recovery.html) | [png](screenshots/onboarding-recovery-light.png) | [png](screenshots/onboarding-recovery-dark.png) | Plain-language explanation, key in 8 groups, print/copy, honest "nobody can get it back" warning, then confirmation by re-typing |
 | Design system | [system.html](system.html) | [png](screenshots/system-light.png) | [png](screenshots/system-dark.png) | Palette, category tints, heat ramp, type, spacing, radii, icons, components, motion |
 
